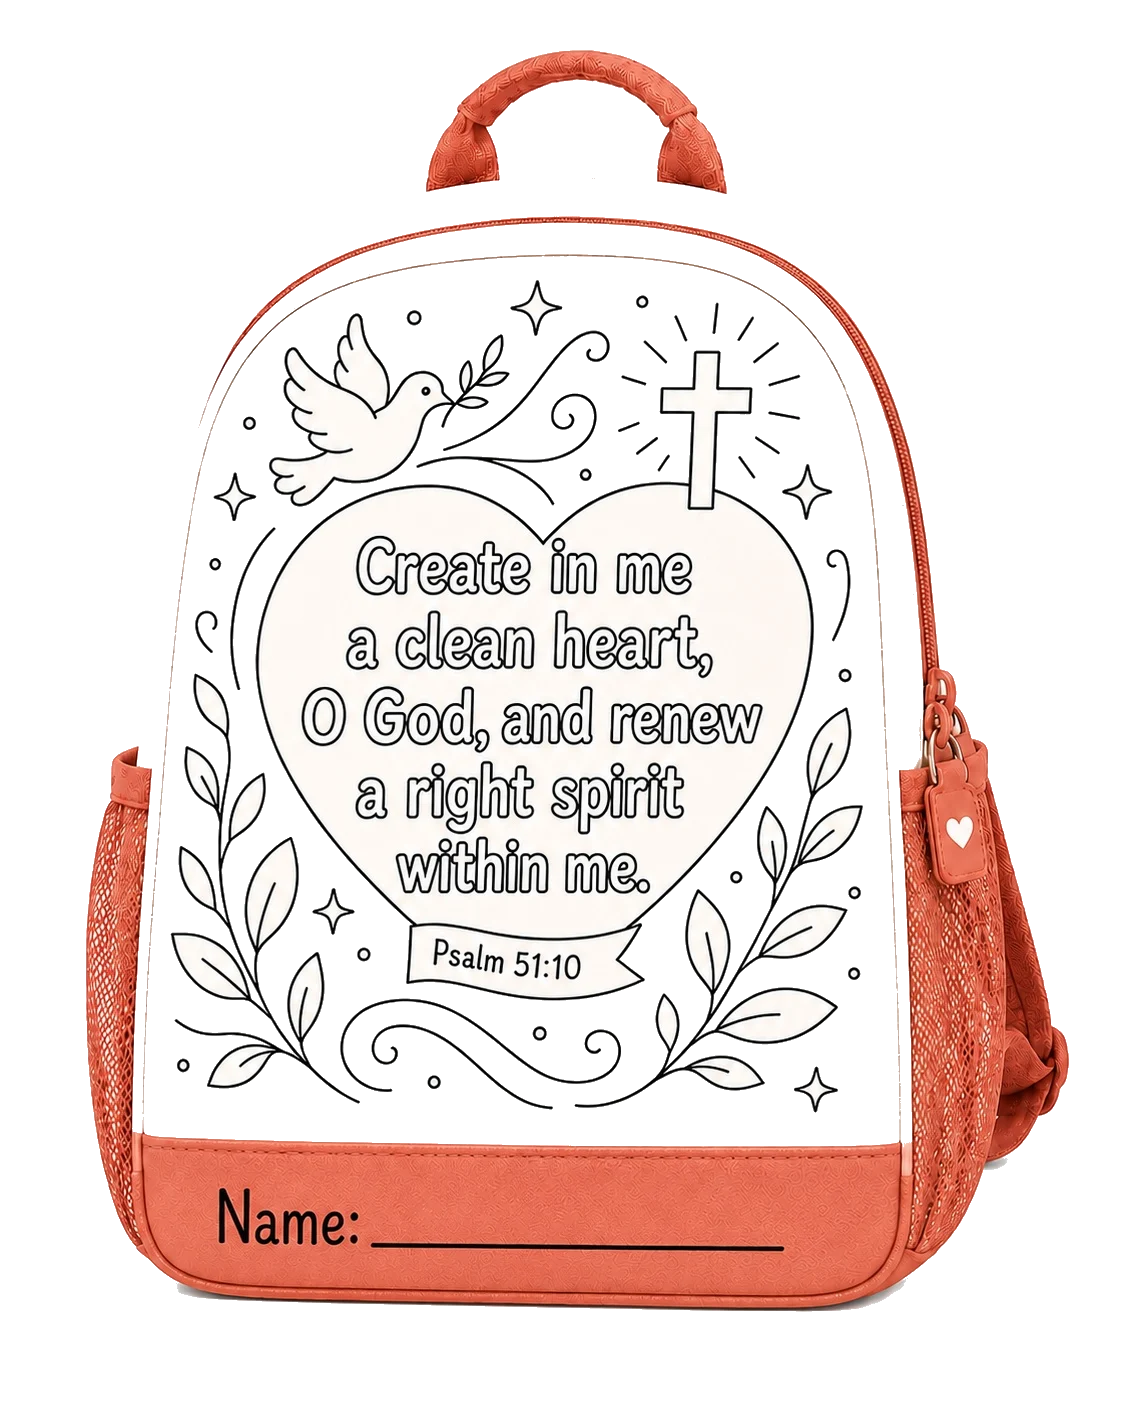
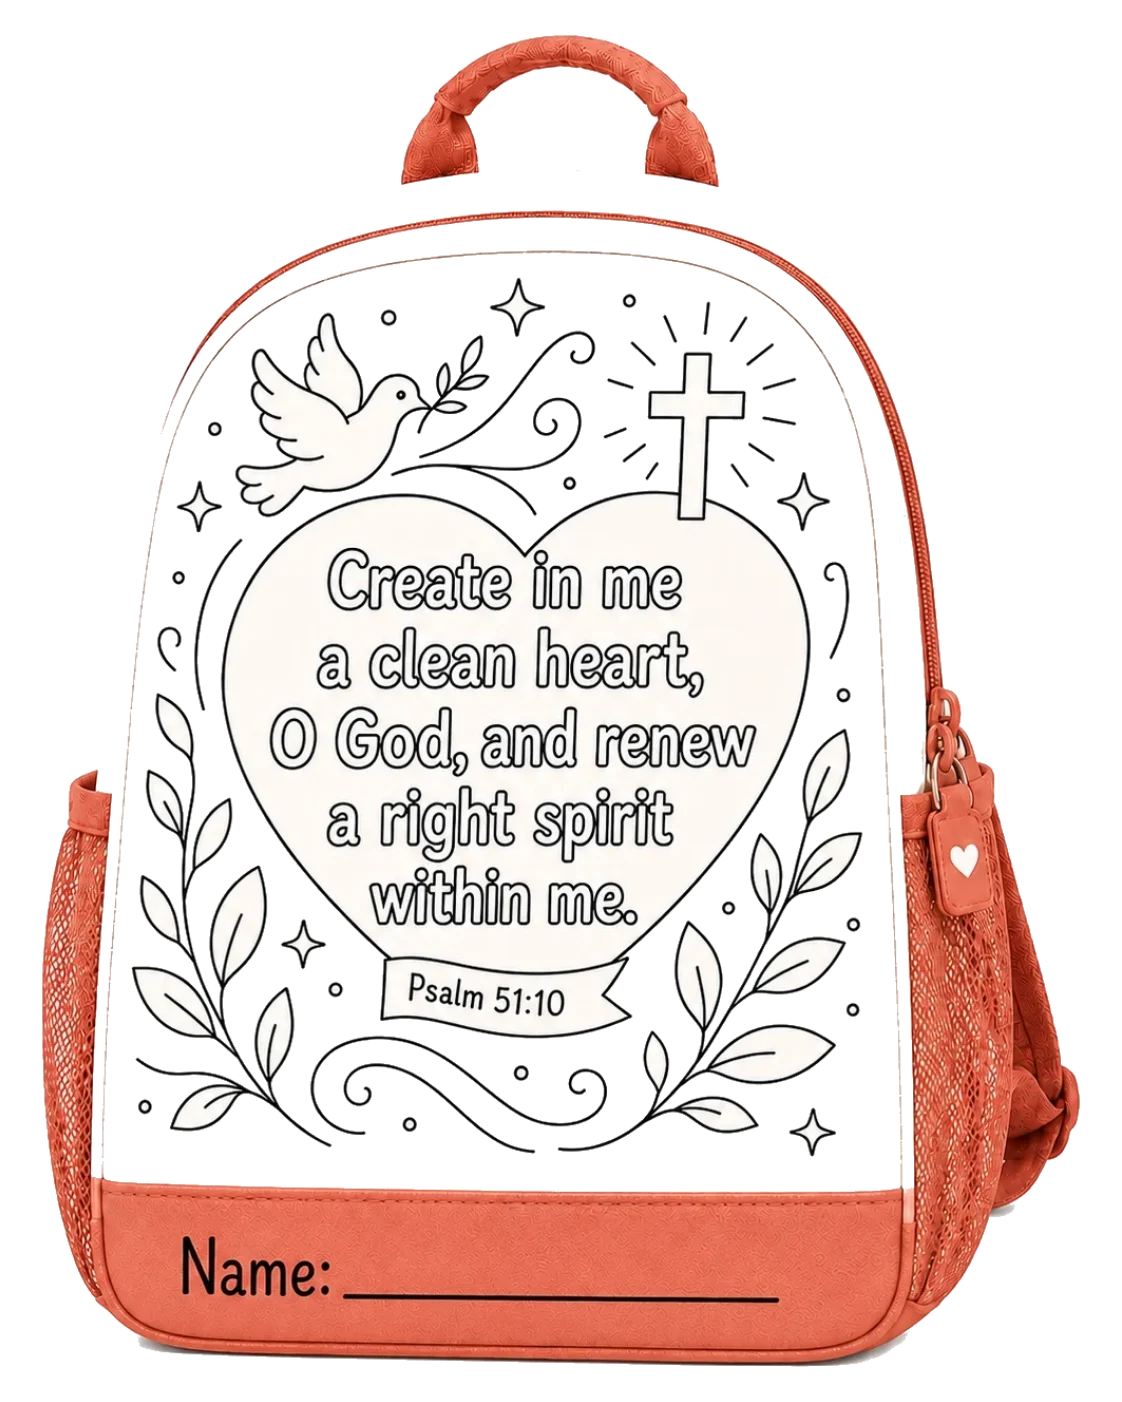
Normalize hero backpack sizes and improve separation
Rescale all three carousel designs so the backpack fills the same
proportion of the frame (the navy render sat smaller than the others).
Swap the warm spotlight glow for a soft neutral white "stage" and deepen
the drop-shadow so light-colored designs no longer blend into the cream.

Claude-Session: https://claude.ai/code/session_01HNkQvP1wwZt9CBuJ8hWZSg

Changed region(s): [[0.0312, 0.0, 0.967, 0.9815]]

diff --git a/css/styles.css b/css/styles.css
@@ -208,7 +208,7 @@ img { max-width: 100%; display: block; }
 .hero__slide:not(:first-child) { position: absolute; inset: 0; }
 .hero__slide.is-active { opacity: 1; }
 .hero__slide picture { display: block; }
-.hero__slide img { width: 100%; display: block; filter: drop-shadow(0 26px 36px rgba(28,46,61,.22)); }
+.hero__slide img { width: 100%; display: block; filter: drop-shadow(0 28px 40px rgba(28,46,61,.26)); }
 /* Navigation dots */
 .hero__dots { display: flex; justify-content: center; gap: 10px; margin-top: 26px; }
 .hero__dot {
@@ -217,10 +217,11 @@ img { max-width: 100%; display: block; }
 }
 .hero__dot:hover { background: rgba(28,46,61,.4); }
 .hero__dot.is-active { width: 26px; background: var(--coral); }
-/* Warm spotlight glow that gives the floating backpack a "stage" */
+/* Soft neutral "stage" glow so light- and dark-colored designs both
+   separate cleanly from the warm cream background. */
 .hero__art::before {
-  content: ""; position: absolute; inset: -10% -8%; z-index: -2;
-  background: radial-gradient(circle at 50% 46%, rgba(255,104,104,.16), rgba(219,185,120,.13) 46%, transparent 68%);
+  content: ""; position: absolute; inset: -8% -6%; z-index: -2;
+  background: radial-gradient(circle at 50% 48%, rgba(255,255,255,.78), rgba(255,255,255,.34) 44%, transparent 70%);
 }
 /* Playful floating doodles that fill the space and echo the coloring theme */
 .floaty { position: absolute; z-index: 1; pointer-events: none; opacity: .95; }